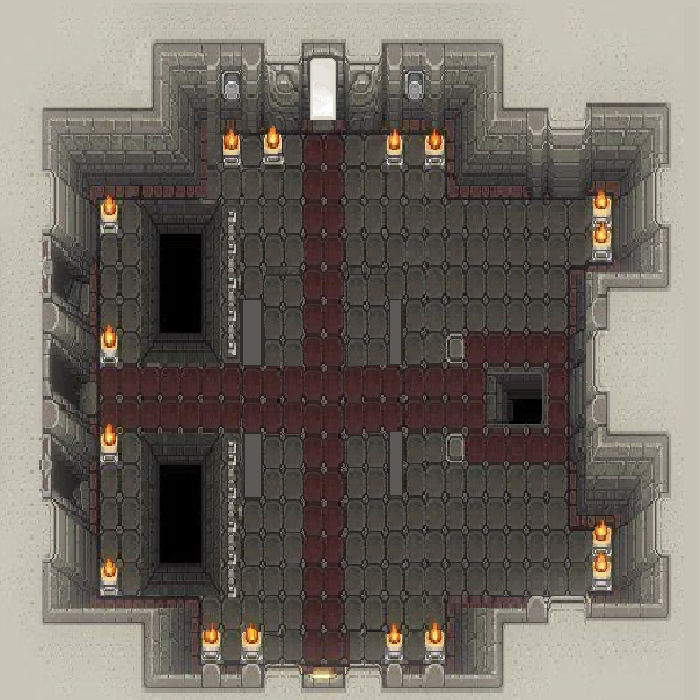
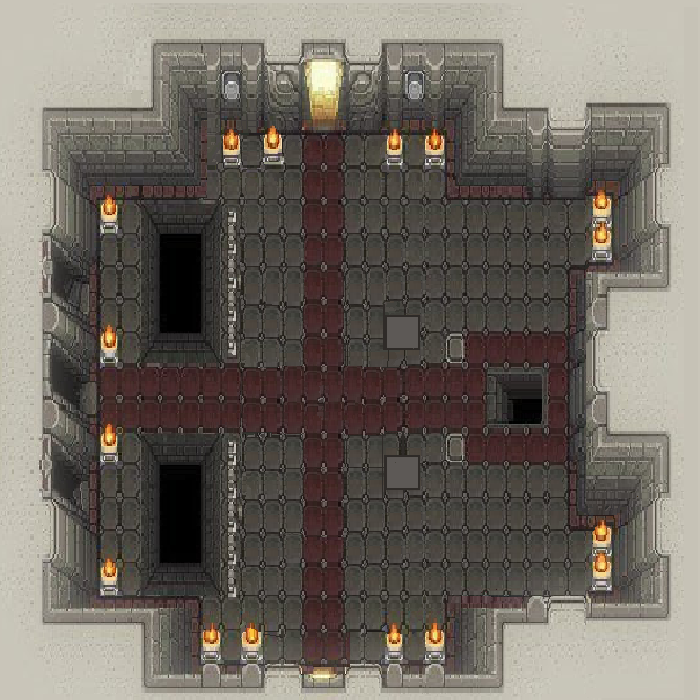
Hauptraum 🔨
Fertigen Hauptraum hinzugefügt; Signale und Array angepasst.

diff --git a/src/Steuerung.java b/src/Steuerung.java
@@ -38,8 +38,8 @@ public class Steuerung implements KeyListener {
         krug3 = new Krug(12, 4, 35, 35, g.getKrugImg(), 4);
         krug4 = new Krug(13, 4, 35, 35, g.getKrugImg(), 5);
         darkroomHebel = new Hebel(m.getDarkroomSchalterX(), m.getDarkroomSchalterY(), 35, 35, g.getDarkroomSchalterImg(), 6);
-        signalDruckplatte = new Signal(7, 8, 35, 35, g.getSignalImg(), 7);
-        signalDarkroom = new Signal(11, 8, 35, 35, g.getSignalImg(), 7);
+        signalDarkroom = new Signal(11, 13, 35, 35, g.getSignalImg(), 7);
+        signalDruckplatte = new Signal(11, 9, 35, 35, g.getSignalImg(), 7);
         schablone = new Schablone(-193, -298, groesse*2, groesse*2, g.getSchabloneImg(), 10);
         aktuellesLevel = m.hauptraum;
         aktuellesLevelImg = g.getHauptraumImg();

diff --git a/src/Map.java b/src/Map.java
@@ -59,8 +59,8 @@ public class Map {
             {0, 0, 0, 0, 0, 0, 1, 0, 0, 0, 0, 0, 0, 0, 0, 0, 1, 0, 0, 0},
             {0, 0, 0, 0, 0, 0, 1, 0, 0, 0, 0, 0, 0, 0, 0, 0, 1, 0, 0, 0},
             {0, 0, 0, 0, 0, 0, 1, 0, 0, 0, 0, 0, 1, 1, 1, 1, 0, 0, 0, 0},
-            {0, 0, 0, 0, 0, 0, 0, 1, 1, 1, 1, 1, 0, 0, 0, 0, 0, 0, 0, 0},
-            {0, 0, 0, 0, 0, 0, 0, 0, 0, 0, 0, 0, 0, 0, 0, 0, 0, 0, 0, 0},
+            {0, 0, 0, 0, 0, 0, 0, 1, 0, 0, 0, 1, 0, 0, 0, 0, 0, 0, 0, 0},
+            {0, 0, 0, 0, 0, 0, 0, 0, 1, 1, 1, 0, 0, 0, 0, 0, 0, 0, 0, 0},
     };
 
     int[][] druckplatte = {
